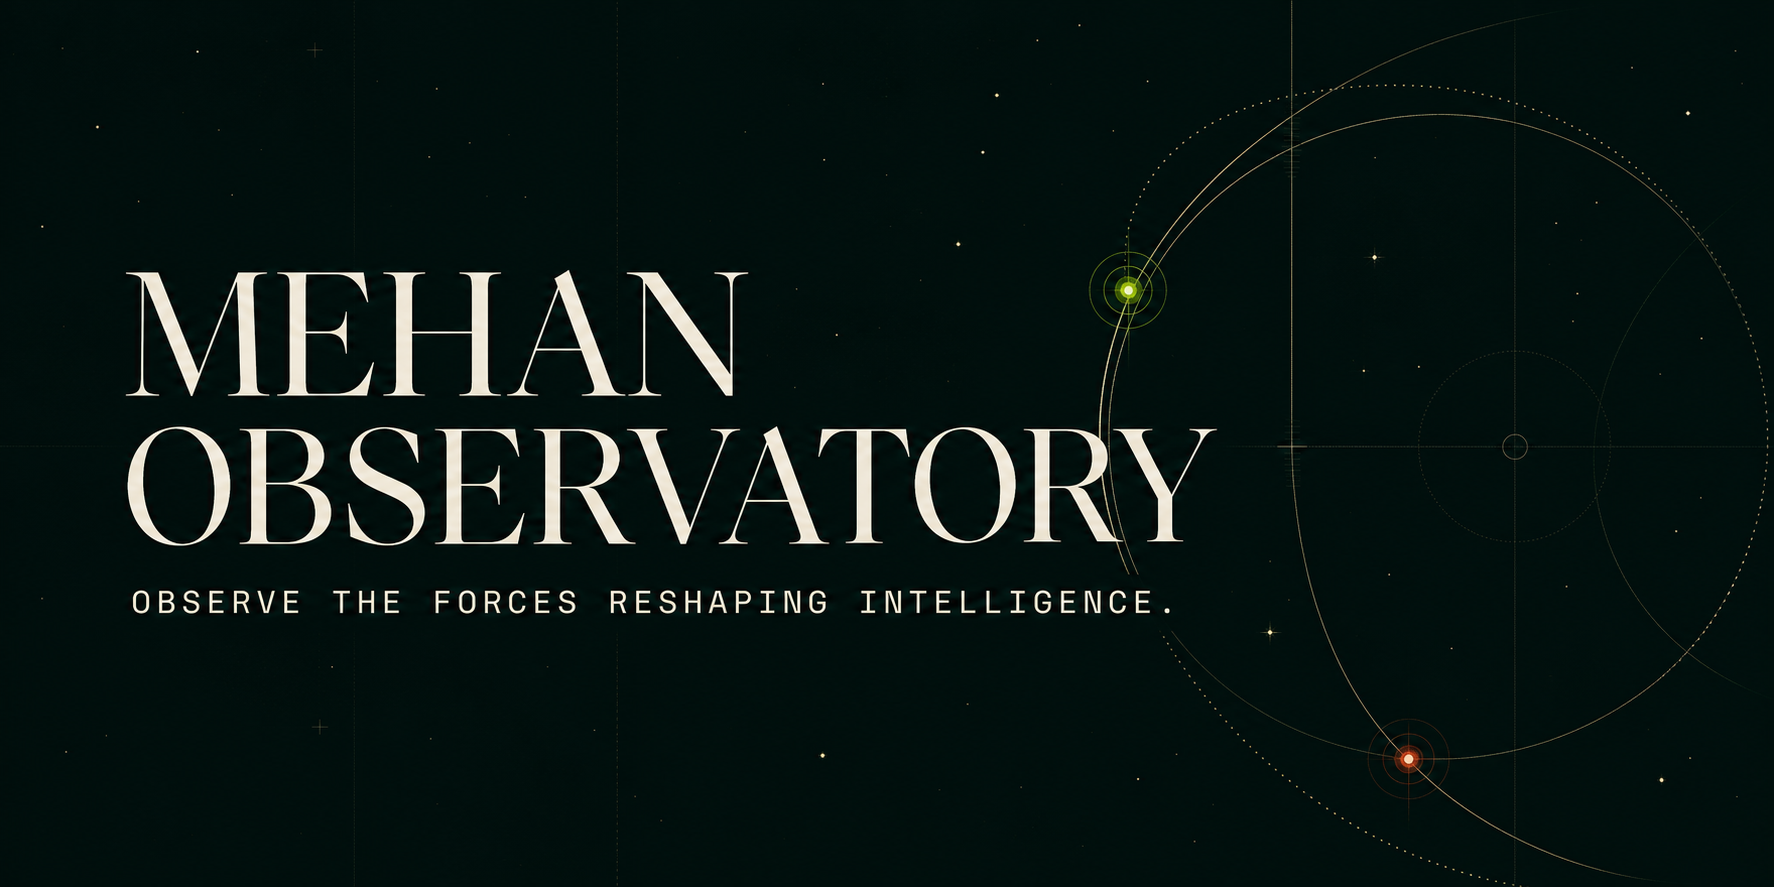
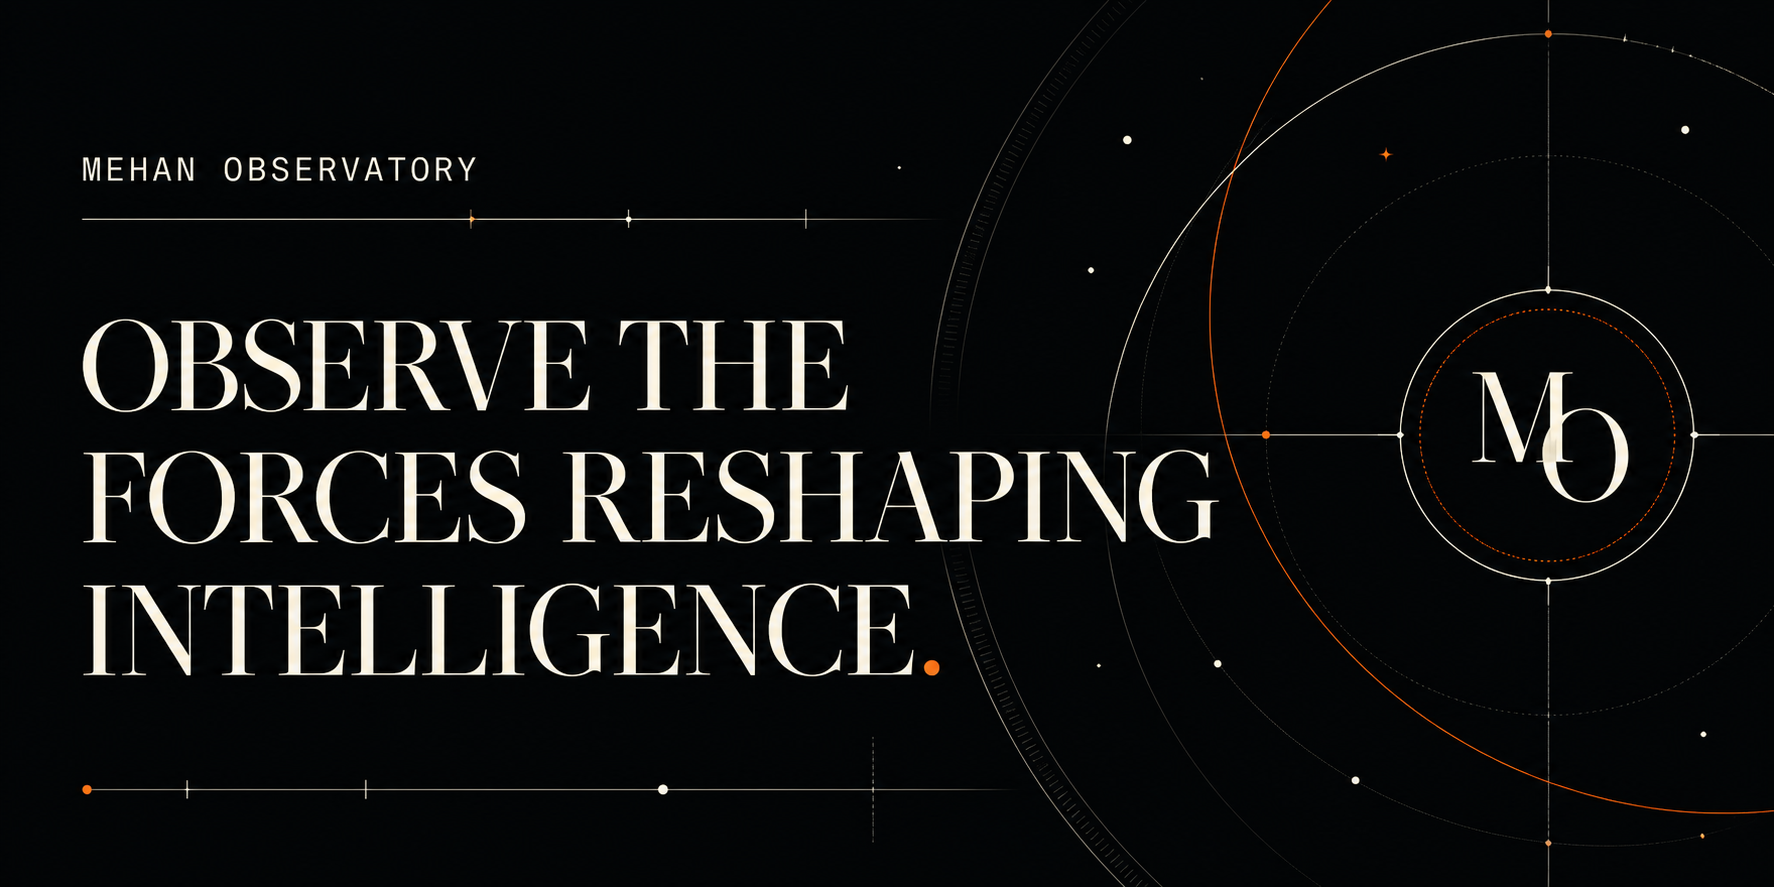
Refine Observatory color theme

diff --git a/app/globals.css b/app/globals.css
@@ -1,16 +1,16 @@
 @import "tailwindcss";
 
 :root {
-  --night: #07110f;
-  --night-soft: #0d1a17;
-  --paper: #f2efe7;
-  --paper-deep: #e5e0d4;
-  --ink: #121713;
-  --muted: #686d66;
-  --rule: rgba(18, 23, 19, 0.19);
-  --light-rule: rgba(237, 239, 224, 0.2);
-  --acid: #c8ff3d;
-  --signal: #ee633d;
+  --night: #090b0b;
+  --night-soft: #111414;
+  --paper: #f4f0e8;
+  --paper-deep: #e9e2d7;
+  --ink: #141312;
+  --muted: #6e6961;
+  --rule: rgba(20, 19, 18, 0.19);
+  --light-rule: rgba(244, 240, 232, 0.2);
+  --light: #f4f0e8;
+  --signal: #ed6a3b;
 }
 
 * { box-sizing: border-box; }
@@ -18,22 +18,22 @@ html { scroll-behavior: smooth; }
 body { margin: 0; background: var(--paper); color: var(--ink); font-family: var(--font-sans), Arial, sans-serif; }
 a { color: inherit; }
 button, input { font: inherit; }
-::selection { background: var(--acid); color: var(--night); }
+::selection { background: var(--signal); color: var(--night); }
 .sr-only { position: absolute; width: 1px; height: 1px; padding: 0; margin: -1px; overflow: hidden; clip: rect(0, 0, 0, 0); white-space: nowrap; border: 0; }
 
-.site-header { height: 76px; padding: 0 3.5vw; display: grid; grid-template-columns: 1fr auto 1fr; align-items: center; color: #edf0df; background: var(--night); border-bottom: 1px solid var(--light-rule); position: relative; z-index: 10; }
+.site-header { height: 76px; padding: 0 3.5vw; display: grid; grid-template-columns: 1fr auto 1fr; align-items: center; color: var(--light); background: var(--night); border-bottom: 1px solid var(--light-rule); position: relative; z-index: 10; }
 .wordmark { display: flex; align-items: center; gap: 13px; text-decoration: none; font-family: var(--font-display); font-size: 22px; }
 .mark { width: 34px; height: 34px; display: grid; place-items: center; border: 1px solid currentColor; border-radius: 50%; font: 10px var(--font-mono); letter-spacing: -0.08em; }
 .site-header nav { display: flex; gap: 25px; }
 .site-header nav a, .book-link { text-decoration: none; text-transform: uppercase; font: 10px var(--font-mono); letter-spacing: .12em; }
-.site-header nav a:hover, .book-link:hover { color: var(--acid); }
-.site-header nav a.active { color: var(--acid); }
+.site-header nav a:hover, .book-link:hover { color: var(--signal); }
+.site-header nav a.active { color: var(--signal); }
 .book-link { justify-self: end; display: flex; gap: 10px; }
 
-.hero { min-height: calc(100svh - 76px); background: var(--night); color: #edf0df; position: relative; overflow: hidden; padding: 11vh 3.5vw 34px; display: flex; flex-direction: column; justify-content: space-between; }
-.star-field { position: absolute; inset: 0; opacity: .57; background-image: radial-gradient(circle at 16% 26%, rgba(200,255,61,.95) 0 1px, transparent 1.4px), radial-gradient(circle at 71% 14%, rgba(255,255,255,.8) 0 1px, transparent 1.5px), radial-gradient(circle at 49% 73%, rgba(255,255,255,.65) 0 1px, transparent 1.5px), radial-gradient(circle at 86% 58%, rgba(200,255,61,.75) 0 1px, transparent 1.5px); background-size: 190px 170px, 260px 230px, 310px 280px, 370px 330px; mask-image: linear-gradient(to bottom, black, transparent 88%); }
-.orbit { position: absolute; border: 1px solid rgba(200,255,61,.19); border-radius: 50%; pointer-events: none; }
-.orbit::before { content: ""; position: absolute; width: 7px; height: 7px; background: var(--acid); border-radius: 50%; box-shadow: 0 0 22px var(--acid); }
+.hero { min-height: calc(100svh - 76px); background: var(--night); color: var(--light); position: relative; overflow: hidden; padding: 11vh 3.5vw 34px; display: flex; flex-direction: column; justify-content: space-between; }
+.star-field { position: absolute; inset: 0; opacity: .57; background-image: radial-gradient(circle at 16% 26%, rgba(237,106,59,.9) 0 1px, transparent 1.4px), radial-gradient(circle at 71% 14%, rgba(255,255,255,.8) 0 1px, transparent 1.5px), radial-gradient(circle at 49% 73%, rgba(255,255,255,.65) 0 1px, transparent 1.5px), radial-gradient(circle at 86% 58%, rgba(244,240,232,.75) 0 1px, transparent 1.5px); background-size: 190px 170px, 260px 230px, 310px 280px, 370px 330px; mask-image: linear-gradient(to bottom, black, transparent 88%); }
+.orbit { position: absolute; border: 1px solid rgba(244,240,232,.18); border-radius: 50%; pointer-events: none; }
+.orbit::before { content: ""; position: absolute; width: 7px; height: 7px; background: var(--light); border-radius: 50%; box-shadow: 0 0 22px rgba(244,240,232,.62); }
 .orbit-one { width: 58vw; height: 58vw; right: -22vw; top: -18vw; }
 .orbit-one::before { left: 10%; top: 22%; }
 .orbit-two { width: 34vw; height: 34vw; right: -2vw; top: 9vw; border-color: rgba(238,99,61,.22); }
@@ -41,18 +41,18 @@ button, input { font: inherit; }
 .kicker { margin: 0; color: var(--signal); text-transform: uppercase; font: 10px var(--font-mono); letter-spacing: .17em; }
 .hero > *:not(.orbit):not(.star-field) { position: relative; z-index: 1; }
 .hero h1 { max-width: 1260px; margin: auto 0 6vh; font: 400 clamp(64px, 10.5vw, 165px)/.77 var(--font-display); letter-spacing: -.058em; }
-.hero h1 span { display: block; margin-left: 12vw; color: var(--acid); font-style: italic; }
+.hero h1 span { display: block; margin-left: 12vw; color: var(--light); font-style: italic; }
 .hero-lower { display: grid; grid-template-columns: 1.15fr .85fr; align-items: end; gap: 8vw; padding-bottom: 6vh; }
 .hero-dek { max-width: 740px; margin: 0; font: 400 clamp(20px, 2.3vw, 34px)/1.27 var(--font-display); }
-.hero-dek em { color: var(--acid); }
+.hero-dek em { color: var(--signal); }
 .hero-actions { display: flex; align-items: center; gap: 28px; }
-.primary-action { min-height: 48px; display: inline-flex; align-items: center; justify-content: center; padding: 0 22px; text-decoration: none; background: var(--acid); color: var(--night); text-transform: uppercase; font: 10px var(--font-mono); letter-spacing: .1em; border: 1px solid var(--acid); transition: .2s ease; }
-.primary-action:hover { background: transparent; color: var(--acid); }
+.primary-action { min-height: 48px; display: inline-flex; align-items: center; justify-content: center; padding: 0 22px; text-decoration: none; background: var(--signal); color: var(--night); text-transform: uppercase; font: 10px var(--font-mono); letter-spacing: .1em; border: 1px solid var(--signal); transition: background-color .2s ease, color .2s ease; }
+.primary-action:hover { background: transparent; color: var(--signal); }
 .text-action { font: 11px var(--font-mono); text-underline-offset: 5px; }
-.text-action span { color: var(--acid); }
-.coordinate-line { padding-top: 19px; border-top: 1px solid var(--light-rule); display: flex; justify-content: space-between; text-transform: uppercase; font: 9px var(--font-mono); letter-spacing: .08em; color: rgba(237,240,223,.62); }
-.signal { display: flex; align-items: center; gap: 9px; color: var(--acid); }
-.signal i, .terminal-topline i { width: 6px; height: 6px; display: inline-block; background: var(--acid); border-radius: 50%; box-shadow: 0 0 12px var(--acid); }
+.text-action span { color: var(--signal); }
+.coordinate-line { padding-top: 19px; border-top: 1px solid var(--light-rule); display: flex; justify-content: space-between; text-transform: uppercase; font: 9px var(--font-mono); letter-spacing: .08em; color: rgba(244,240,232,.62); }
+.signal { display: flex; align-items: center; gap: 9px; color: var(--signal); }
+.signal i, .terminal-topline i { width: 6px; height: 6px; display: inline-block; background: var(--signal); border-radius: 50%; box-shadow: 0 0 12px rgba(237,106,59,.72); }
 
 .brief-band { display: grid; grid-template-columns: .25fr .8fr 2.2fr 1.2fr auto; gap: 30px; padding: 38px 3.5vw; align-items: start; background: var(--signal); color: #170d09; border-bottom: 1px solid rgba(0,0,0,.25); }
 .section-number { font: 10px var(--font-mono); color: var(--signal); }
@@ -79,48 +79,48 @@ button, input { font: inherit; }
 .inline-route-link span { font-size: 16px; }
 
 .terminal-section { background: var(--paper); }
-.terminal-shell { border: 1px solid var(--night); background: var(--night); color: #edf0df; box-shadow: 16px 16px 0 var(--paper-deep); }
-.terminal-topline { min-height: 54px; padding: 10px 16px; border-bottom: 1px solid var(--light-rule); display: grid; grid-template-columns: 1fr 1fr 320px; align-items: center; gap: 24px; text-transform: uppercase; font: 9px var(--font-mono); letter-spacing: .08em; color: rgba(237,240,223,.62); }
-.terminal-topline > span:first-child { color: var(--acid); display: flex; align-items: center; gap: 9px; }
-.terminal-topline input { width: 100%; padding: 9px 11px; border: 1px solid var(--light-rule); border-radius: 0; background: rgba(255,255,255,.04); color: #edf0df; outline: none; font: 10px var(--font-mono); }
-.terminal-topline input:focus { border-color: var(--acid); }
+.terminal-shell { border: 1px solid var(--night); background: var(--night); color: var(--light); box-shadow: 16px 16px 0 var(--paper-deep); }
+.terminal-topline { min-height: 54px; padding: 10px 16px; border-bottom: 1px solid var(--light-rule); display: grid; grid-template-columns: 1fr 1fr 320px; align-items: center; gap: 24px; text-transform: uppercase; font: 9px var(--font-mono); letter-spacing: .08em; color: rgba(244,240,232,.62); }
+.terminal-topline > span:first-child { color: var(--signal); display: flex; align-items: center; gap: 9px; }
+.terminal-topline input { width: 100%; padding: 9px 11px; border: 1px solid var(--light-rule); border-radius: 0; background: rgba(255,255,255,.04); color: var(--light); outline: none; font: 10px var(--font-mono); }
+.terminal-topline input:focus { border-color: var(--signal); }
 .terminal-layout { display: grid; grid-template-columns: minmax(0, 1fr) 390px; }
 .model-table-wrap { min-width: 0; border-right: 1px solid var(--light-rule); }
 .model-table-head, .model-row { display: grid; grid-template-columns: 70px 1.2fr 100px 1.5fr 40px; align-items: center; gap: 16px; }
-.model-table-head { min-width: 850px; padding: 13px 18px; border-bottom: 1px solid var(--light-rule); text-transform: uppercase; font: 8px var(--font-mono); letter-spacing: .1em; color: rgba(237,240,223,.47); }
+.model-table-head { min-width: 850px; padding: 13px 18px; border-bottom: 1px solid var(--light-rule); text-transform: uppercase; font: 8px var(--font-mono); letter-spacing: .1em; color: rgba(244,240,232,.47); }
 .model-table { max-height: 740px; overflow: auto; }
 .model-row { min-width: 850px; padding: 18px; border-bottom: 1px solid var(--light-rule); transition: background .18s ease; }
-.model-row:hover, .model-row.selected { background: rgba(200,255,61,.055); }
-.compare-toggle { width: 29px; height: 29px; padding: 0; border-radius: 50%; border: 1px solid rgba(237,240,223,.35); background: transparent; color: #edf0df; cursor: pointer; }
-.compare-toggle[aria-pressed="true"] { border-color: var(--acid); color: var(--acid); }
+.model-row:hover, .model-row.selected { background: rgba(237,106,59,.065); }
+.compare-toggle { width: 29px; height: 29px; padding: 0; border-radius: 50%; border: 1px solid rgba(244,240,232,.35); background: transparent; color: var(--light); cursor: pointer; }
+.compare-toggle[aria-pressed="true"] { border-color: var(--signal); color: var(--signal); }
 .model-name strong { display: block; font: 400 20px var(--font-display); }
-.model-name small, .context-value small { display: block; margin-top: 3px; font: 8px var(--font-mono); color: rgba(237,240,223,.47); }
-.context-value strong { font: 16px var(--font-mono); color: var(--acid); }
+.model-name small, .context-value small { display: block; margin-top: 3px; font: 8px var(--font-mono); color: rgba(244,240,232,.47); }
+.context-value strong { font: 16px var(--font-mono); color: var(--light); }
 .signal-bars { display: grid; gap: 4px; }
 .signal-bars > div { display: grid; grid-template-columns: 54px 1fr 24px; gap: 7px; align-items: center; }
-.signal-bars span, .signal-bars em { font: 7px var(--font-mono); color: rgba(237,240,223,.48); font-style: normal; }
-.signal-bars i { height: 3px; background: rgba(237,240,223,.13); }
-.signal-bars b { height: 100%; display: block; background: var(--acid); }
-.model-row > a { text-decoration: none; color: var(--acid); font-size: 18px; }
+.signal-bars span, .signal-bars em { font: 7px var(--font-mono); color: rgba(244,240,232,.48); font-style: normal; }
+.signal-bars i { height: 3px; background: rgba(244,240,232,.13); }
+.signal-bars b { height: 100%; display: block; background: var(--signal); }
+.model-row > a { text-decoration: none; color: var(--signal); font-size: 18px; }
 .comparison-panel { padding: 24px; background: var(--night-soft); }
-.comparison-head { display: flex; justify-content: space-between; padding-bottom: 18px; text-transform: uppercase; font: 9px var(--font-mono); letter-spacing: .1em; color: rgba(237,240,223,.55); }
+.comparison-head { display: flex; justify-content: space-between; padding-bottom: 18px; text-transform: uppercase; font: 9px var(--font-mono); letter-spacing: .1em; color: rgba(244,240,232,.55); }
 .compare-card { position: relative; padding: 20px 0; border-top: 1px solid var(--light-rule); }
-.compare-card button { position: absolute; right: 0; top: 18px; border: 0; background: none; color: rgba(237,240,223,.5); cursor: pointer; }
+.compare-card button { position: absolute; right: 0; top: 18px; border: 0; background: none; color: rgba(244,240,232,.5); cursor: pointer; }
 .compare-card p { margin: 0; text-transform: uppercase; font: 8px var(--font-mono); color: var(--signal); letter-spacing: .08em; }
 .compare-card h3 { margin: 5px 0 16px; font: 400 28px var(--font-display); }
 .score-grid { display: grid; grid-template-columns: repeat(5, 1fr); gap: 3px; }
 .score-grid div { padding: 9px 3px; text-align: center; background: rgba(255,255,255,.045); }
 .score-grid strong, .score-grid span { display: block; font-family: var(--font-mono); }
-.score-grid strong { font-size: 12px; color: var(--acid); }
-.score-grid span { margin-top: 3px; font-size: 6px; text-transform: uppercase; color: rgba(237,240,223,.42); overflow: hidden; }
-.method-note, .empty-state { color: rgba(237,240,223,.42); font: 9px/1.6 var(--font-mono); }
+.score-grid strong { font-size: 12px; color: var(--light); }
+.score-grid span { margin-top: 3px; font-size: 6px; text-transform: uppercase; color: rgba(244,240,232,.42); overflow: hidden; }
+.method-note, .empty-state { color: rgba(244,240,232,.42); font: 9px/1.6 var(--font-mono); }
 .method-note { margin: 26px 0 0; padding-top: 17px; border-top: 1px solid var(--light-rule); }
 
 .ledger-section { background: var(--paper-deep); }
 .ledger-heading { margin-bottom: 30px; }
 .ledger-list { border-top: 1px solid var(--ink); }
-.ledger-entry { display: grid; grid-template-columns: 70px 140px 1.35fr 1fr 30px; gap: 25px; padding: 32px 0; align-items: start; text-decoration: none; border-bottom: 1px solid var(--rule); transition: padding .2s ease, color .2s ease; }
-.ledger-entry:hover { padding-left: 14px; color: #a9361e; }
+.ledger-entry { display: grid; grid-template-columns: 70px 140px 1.35fr 1fr 30px; gap: 25px; padding: 32px 0; align-items: start; text-decoration: none; border-bottom: 1px solid var(--rule); transition: background-color .2s ease, box-shadow .2s ease; }
+.ledger-entry:hover, .ledger-entry:focus-visible { background: rgba(237,106,59,.07); box-shadow: inset 3px 0 0 var(--signal); outline: none; }
 .entry-number { font: 10px var(--font-mono); color: var(--signal); }
 .entry-meta span, .entry-meta time { display: block; text-transform: uppercase; font: 8px/1.5 var(--font-mono); letter-spacing: .09em; }
 .entry-meta time { margin-top: 6px; color: var(--muted); }
@@ -150,29 +150,29 @@ button, input { font: inherit; }
 .book-bridge h2 { margin: 34px auto 22px; font: 400 clamp(50px, 7.5vw, 112px)/.87 var(--font-display); letter-spacing: -.05em; }
 .book-bridge > p:not(.kicker) { font: 20px var(--font-display); }
 .book-bridge > div { margin-top: 37px; display: flex; justify-content: center; align-items: center; gap: 30px; }
-.primary-action.light { background: var(--night); color: #edf0df; border-color: var(--night); }
+.primary-action.light { background: var(--night); color: var(--light); border-color: var(--night); }
 .primary-action.light:hover { background: transparent; color: var(--night); }
 .light-text span { color: inherit; }
 
-footer { padding: 65px 3.5vw 34px; display: grid; grid-template-columns: 1fr 1.4fr 1fr; gap: 45px; align-items: start; background: var(--night); color: #edf0df; }
+footer { padding: 65px 3.5vw 34px; display: grid; grid-template-columns: 1fr 1.4fr 1fr; gap: 45px; align-items: start; background: var(--night); color: var(--light); }
 footer > div:first-child { display: flex; align-items: center; gap: 13px; }
 footer strong { font: 400 22px var(--font-display); }
-footer p { margin: 8px 0 0; color: rgba(237,240,223,.58); font: 15px/1.5 var(--font-display); }
+footer p { margin: 8px 0 0; color: rgba(244,240,232,.58); font: 15px/1.5 var(--font-display); }
 .footer-links { display: flex; justify-content: flex-end; gap: 24px; }
 .footer-links a { text-transform: uppercase; font: 8px var(--font-mono); letter-spacing: .08em; text-underline-offset: 5px; }
-footer small { grid-column: 1/-1; padding-top: 24px; border-top: 1px solid var(--light-rule); text-transform: uppercase; font: 8px var(--font-mono); color: rgba(237,240,223,.42); }
+footer small { grid-column: 1/-1; padding-top: 24px; border-top: 1px solid var(--light-rule); text-transform: uppercase; font: 8px var(--font-mono); color: rgba(244,240,232,.42); }
 
 /* Frontier field */
-.frontier-hero { min-height: 74vh; padding: 9vh 3.5vw 44px; display: grid; grid-template-columns: 1fr 210px; gap: 8vw; align-items: end; position: relative; overflow: hidden; background: var(--night); color: #edf0df; }
-.frontier-grid { position: absolute; inset: 0; opacity: .2; background-image: linear-gradient(rgba(200,255,61,.18) 1px, transparent 1px), linear-gradient(90deg, rgba(200,255,61,.18) 1px, transparent 1px); background-size: 72px 72px; mask-image: radial-gradient(circle at 70% 55%, black, transparent 67%); }
-.frontier-hero::after { content: ""; width: 55vw; height: 55vw; position: absolute; right: -24vw; top: -24vw; border: 1px solid rgba(200,255,61,.24); border-radius: 50%; box-shadow: 0 0 0 10vw rgba(200,255,61,.018), 0 0 0 20vw rgba(200,255,61,.012); }
+.frontier-hero { min-height: 74vh; padding: 9vh 3.5vw 44px; display: grid; grid-template-columns: 1fr 210px; gap: 8vw; align-items: end; position: relative; overflow: hidden; background: var(--night); color: var(--light); }
+.frontier-grid { position: absolute; inset: 0; opacity: .2; background-image: linear-gradient(rgba(237,106,59,.16) 1px, transparent 1px), linear-gradient(90deg, rgba(244,240,232,.13) 1px, transparent 1px); background-size: 72px 72px; mask-image: radial-gradient(circle at 70% 55%, black, transparent 67%); }
+.frontier-hero::after { content: ""; width: 55vw; height: 55vw; position: absolute; right: -24vw; top: -24vw; border: 1px solid rgba(237,106,59,.24); border-radius: 50%; box-shadow: 0 0 0 10vw rgba(237,106,59,.018), 0 0 0 20vw rgba(244,240,232,.012); }
 .frontier-hero-copy, .frontier-stamp { position: relative; z-index: 1; }
 .frontier-hero h1 { margin: 34px 0 36px; font: 400 clamp(70px, 10vw, 148px)/.79 var(--font-display); letter-spacing: -.058em; }
-.frontier-hero h1 em { color: var(--acid); font-weight: 400; }
-.frontier-hero-copy > p:last-child { max-width: 760px; margin: 0; color: rgba(237,240,223,.72); font: clamp(20px, 2.2vw, 32px)/1.35 var(--font-display); }
-.frontier-stamp { align-self: end; padding: 22px 0 0; border-top: 1px solid var(--acid); }
-.frontier-stamp span, .frontier-stamp small { display: block; text-transform: uppercase; font: 8px var(--font-mono); letter-spacing: .1em; color: rgba(237,240,223,.55); }
-.frontier-stamp strong { display: block; margin: 8px 0 28px; color: var(--acid); font: 400 44px var(--font-display); }
+.frontier-hero h1 em { color: var(--light); font-weight: 400; }
+.frontier-hero-copy > p:last-child { max-width: 760px; margin: 0; color: rgba(244,240,232,.72); font: clamp(20px, 2.2vw, 32px)/1.35 var(--font-display); }
+.frontier-stamp { align-self: end; padding: 22px 0 0; border-top: 1px solid var(--signal); }
+.frontier-stamp span, .frontier-stamp small { display: block; text-transform: uppercase; font: 8px var(--font-mono); letter-spacing: .1em; color: rgba(244,240,232,.55); }
+.frontier-stamp strong { display: block; margin: 8px 0 28px; color: var(--signal); font: 400 44px var(--font-display); }
 
 .frontier-intro { padding: 100px 3.5vw 70px; display: grid; grid-template-columns: 60px 170px 1.35fr .65fr; gap: 28px; align-items: start; }
 .frontier-intro h2, .field-findings h2, .observatory-watchlist h2 { margin: 0; font: 400 clamp(52px, 6.5vw, 96px)/.88 var(--font-display); letter-spacing: -.05em; }
@@ -181,7 +181,7 @@ footer small { grid-column: 1/-1; padding-top: 24px; border-top: 1px solid var(-
 
 .frontier-columns { display: grid; grid-template-columns: 1fr 1fr; border-top: 1px solid var(--ink); border-bottom: 1px solid var(--ink); }
 .frontier-column:first-child { border-right: 1px solid var(--ink); }
-.column-heading { min-height: 60px; padding: 0 3.5vw; display: flex; align-items: center; justify-content: space-between; background: var(--ink); color: #edf0df; text-transform: uppercase; font: 9px var(--font-mono); letter-spacing: .11em; }
+.column-heading { min-height: 60px; padding: 0 3.5vw; display: flex; align-items: center; justify-content: space-between; background: var(--ink); color: var(--light); text-transform: uppercase; font: 9px var(--font-mono); letter-spacing: .11em; }
 .china-column .column-heading { background: var(--signal); color: #1c0d08; }
 .column-heading strong { font-weight: 400; opacity: .55; }
 .frontier-card { min-height: 500px; padding: 34px 3.5vw 30px; display: flex; flex-direction: column; border-bottom: 1px solid var(--rule); }
@@ -198,13 +198,13 @@ footer small { grid-column: 1/-1; padding-top: 24px; border-top: 1px solid var(-
 .frontier-card > a { margin-top: auto; text-transform: uppercase; text-underline-offset: 5px; font: 8px var(--font-mono); letter-spacing: .07em; }
 .frontier-card > a span { color: var(--signal); }
 
-.field-findings { padding: 115px 3.5vw; display: grid; grid-template-columns: .8fr 1.2fr; gap: 8vw; background: var(--night); color: #edf0df; }
+.field-findings { padding: 115px 3.5vw; display: grid; grid-template-columns: .8fr 1.2fr; gap: 8vw; background: var(--night); color: var(--light); }
 .field-findings-heading .kicker { margin: 20px 0 42px; }
 .finding-list { border-top: 1px solid var(--light-rule); }
 .finding-list article { padding: 32px 0; display: grid; grid-template-columns: 50px .8fr 1fr; gap: 25px; border-bottom: 1px solid var(--light-rule); }
-.finding-list article > span { color: var(--acid); font: 9px var(--font-mono); }
+.finding-list article > span { color: var(--signal); font: 9px var(--font-mono); }
 .finding-list h3 { margin: 0; font: 400 30px/1 var(--font-display); }
-.finding-list p { margin: 0; color: rgba(237,240,223,.58); font-size: 13px; line-height: 1.55; }
+.finding-list p { margin: 0; color: rgba(244,240,232,.58); font-size: 13px; line-height: 1.55; }
 
 .observatory-watchlist { padding: 110px 3.5vw; display: grid; grid-template-columns: .55fr 1.45fr; gap: 8vw; background: var(--paper-deep); }
 .observatory-watchlist > div:first-child { display: flex; align-items: flex-start; gap: 35px; padding-top: 10px; }
@@ -212,7 +212,7 @@ footer small { grid-column: 1/-1; padding-top: 24px; border-top: 1px solid var(-
 .observatory-watchlist li { padding: 24px 0; display: grid; grid-template-columns: 55px 1fr; gap: 20px; border-bottom: 1px solid var(--rule); font: 22px/1.35 var(--font-display); }
 .observatory-watchlist li span { padding-top: 6px; color: var(--signal); font: 9px var(--font-mono); }
 
-.methodology-band { padding: 35px 3.5vw; display: grid; grid-template-columns: 190px 1fr auto; gap: 45px; align-items: center; background: var(--acid); color: var(--night); }
+.methodology-band { padding: 35px 3.5vw; display: grid; grid-template-columns: 190px 1fr auto; gap: 45px; align-items: center; background: var(--light); color: var(--night); }
 .methodology-band .signal { color: var(--night); text-transform: uppercase; font: 8px var(--font-mono); letter-spacing: .08em; }
 .methodology-band .signal i { background: var(--night); box-shadow: none; }
 .methodology-band strong { display: block; margin-top: 5px; font: 400 42px var(--font-display); }
